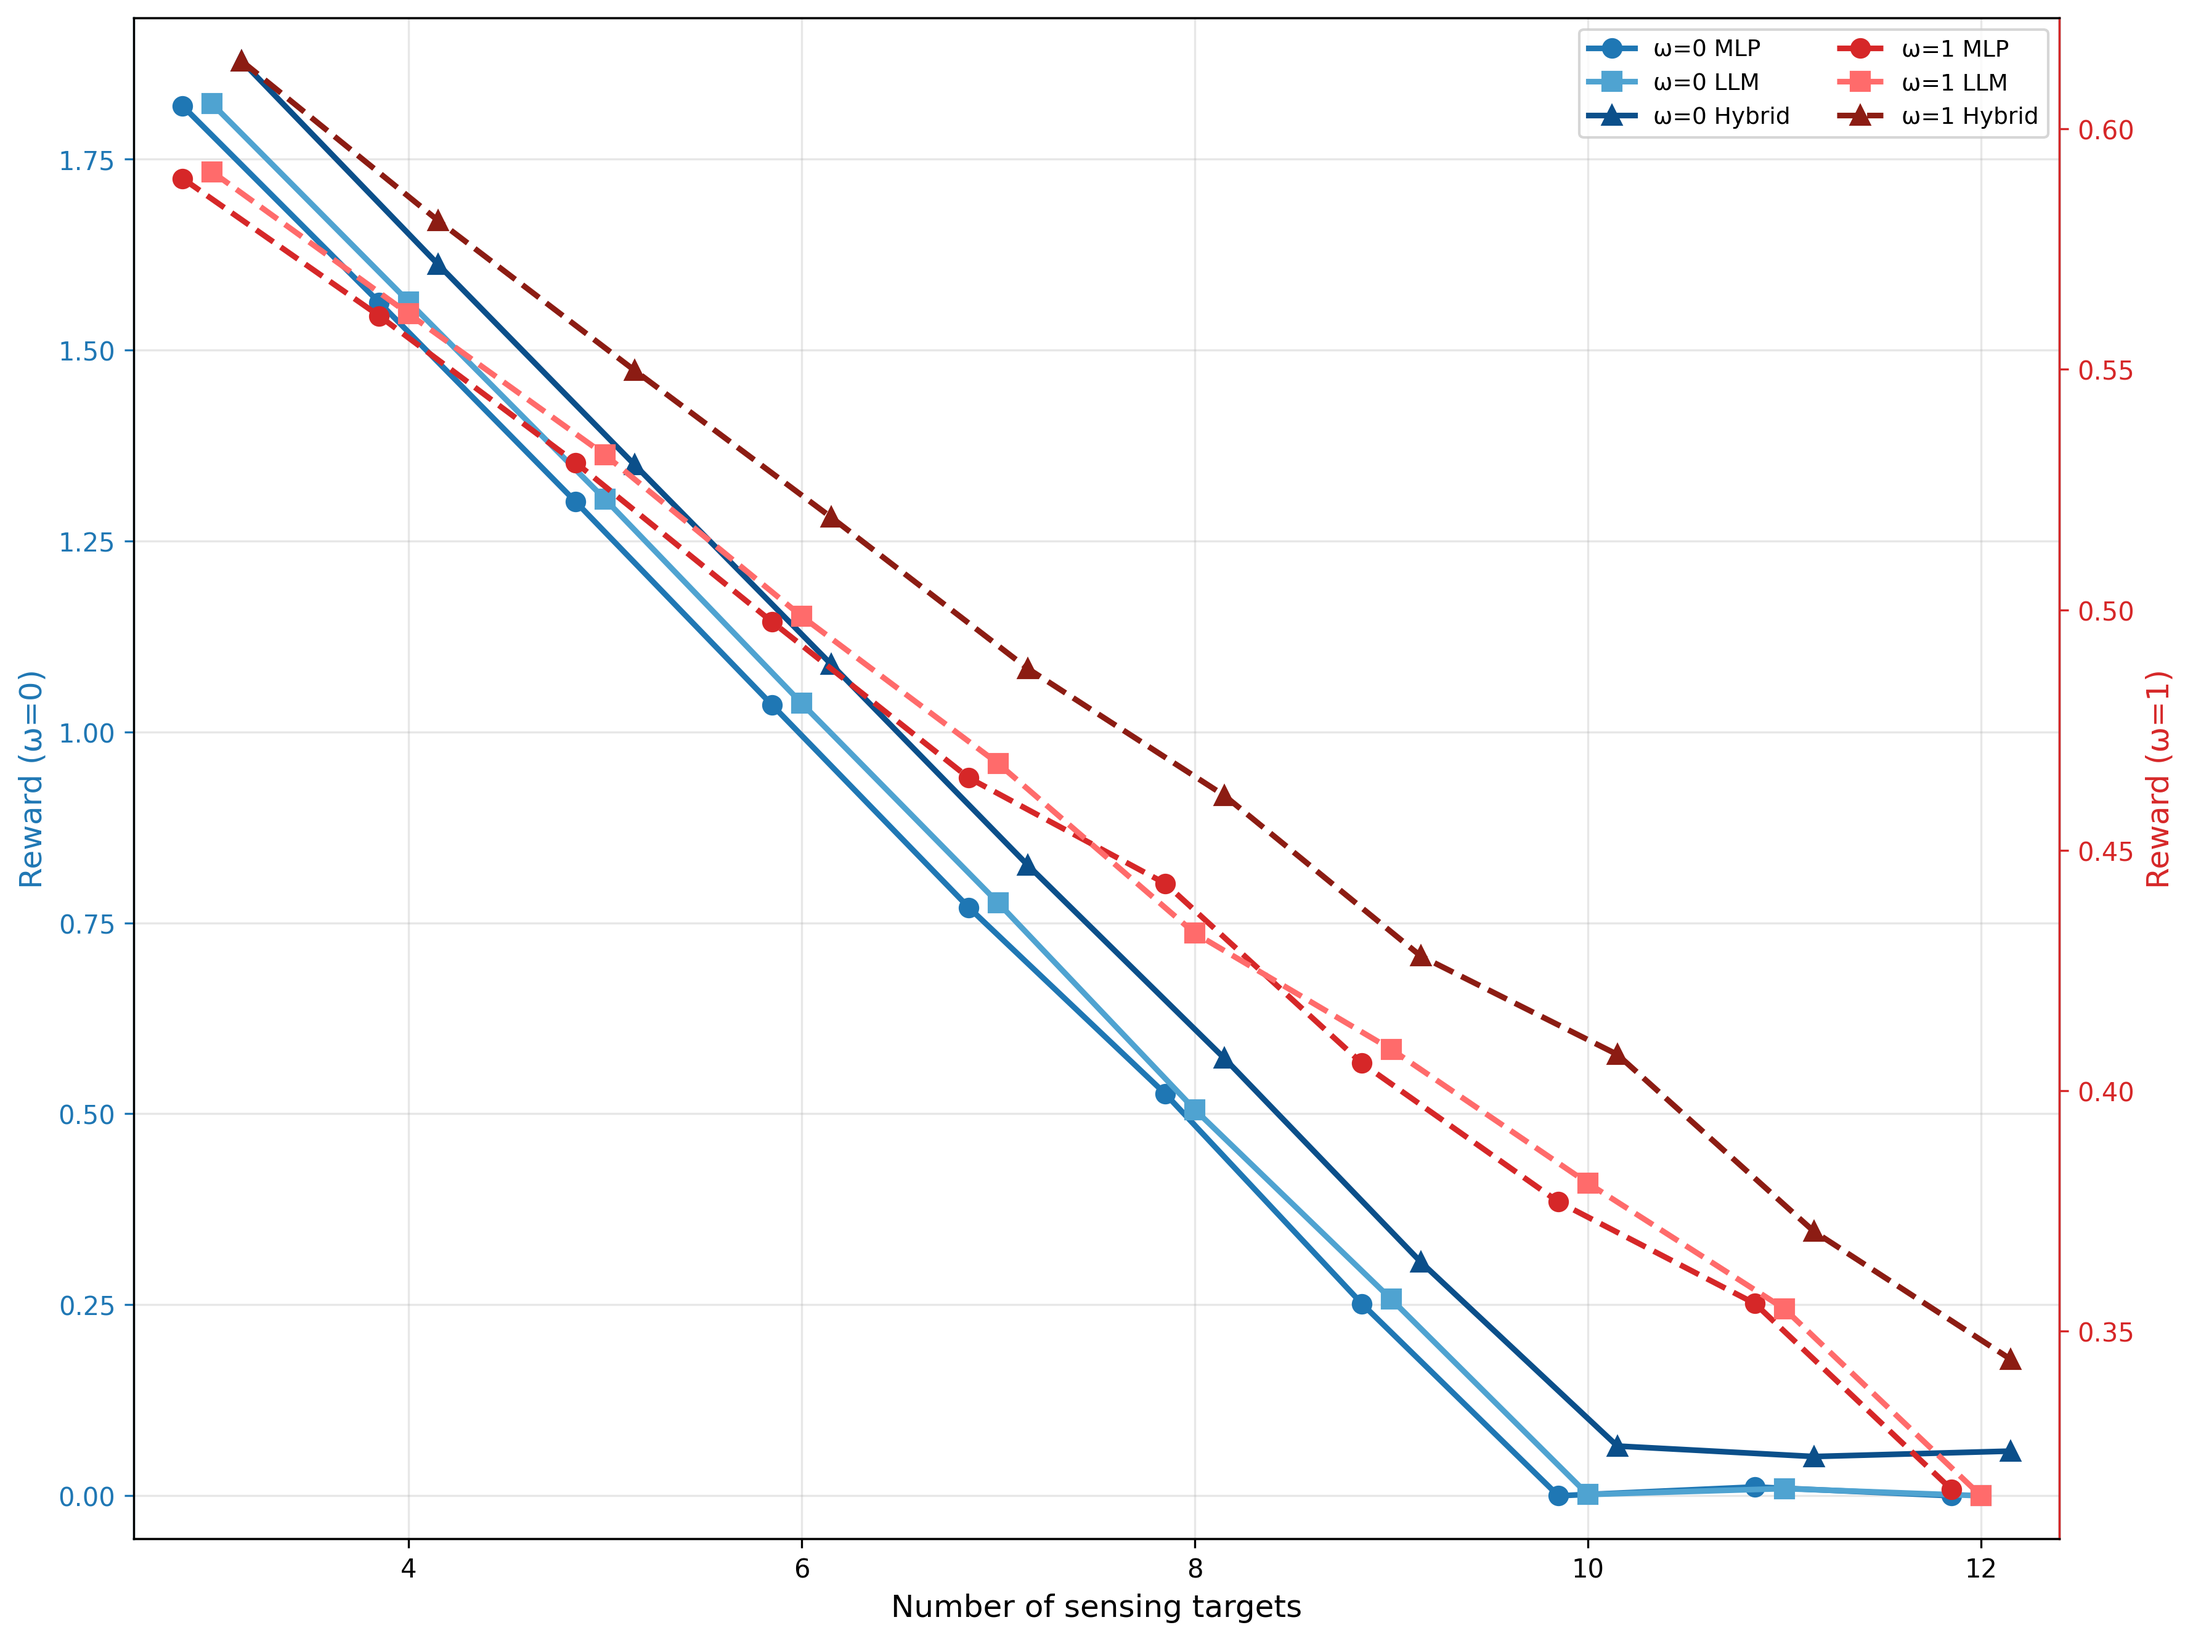
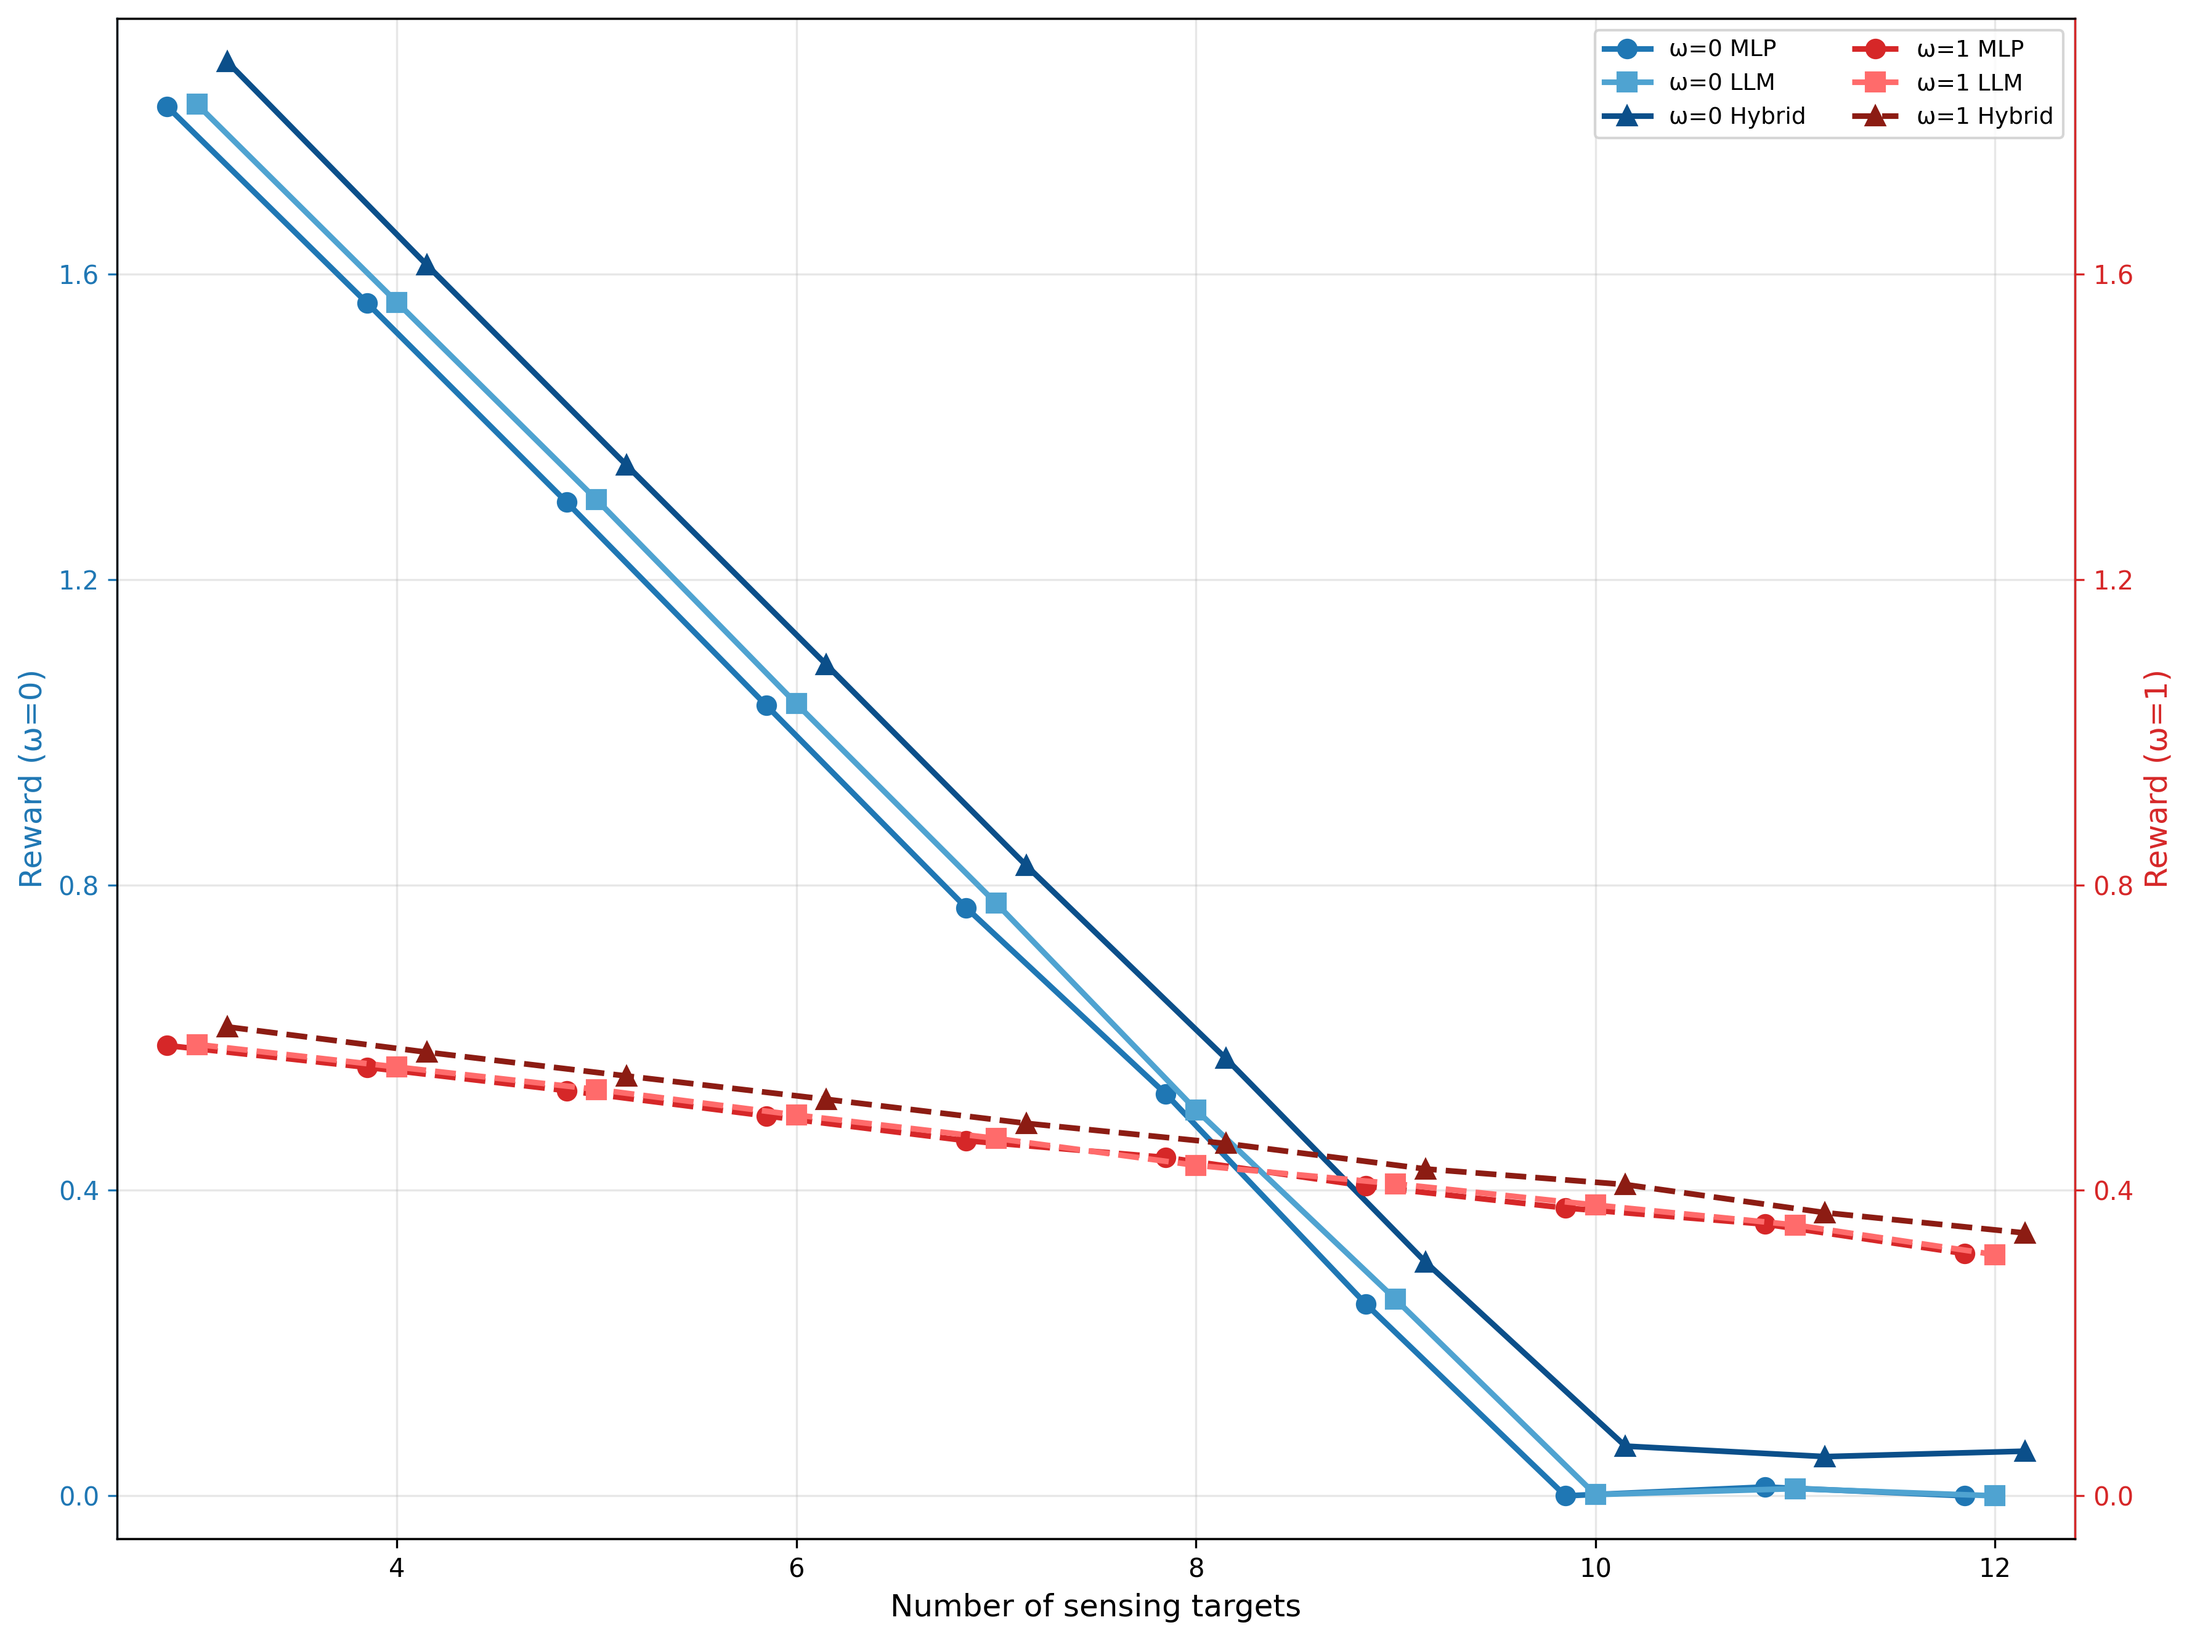
UX: sync dual y-axes in Figs 2–3 to identical scales and ticks

diff --git a/comprehensive_plots.py b/comprehensive_plots.py
@@ -86,6 +86,25 @@ def _set_stretched_ylim(ax, arrays, pad=0.05):
     rng = vmax - vmin
     ax.set_ylim(vmin - pad * rng, vmax + pad * rng)
 
+# New helper: synchronize dual y-axes to identical ranges
+def _sync_dual_ylim(ax_left, ax_right, arrays_left, arrays_right, pad=0.05):
+    vals = np.concatenate([np.asarray(a).ravel() for a in arrays_left + arrays_right if a is not None])
+    vmin, vmax = np.min(vals), np.max(vals)
+    if vmax <= vmin:
+        return
+    rng = vmax - vmin
+    lo, hi = vmin - pad * rng, vmax + pad * rng
+    ax_left.set_ylim(lo, hi)
+    ax_right.set_ylim(lo, hi)
+    # Optional: align major ticks count
+    try:
+        import matplotlib.ticker as mticker
+        locator = mticker.MaxNLocator(nbins=6)
+        ax_left.yaxis.set_major_locator(locator)
+        ax_right.yaxis.set_major_locator(locator)
+    except Exception:
+        pass
+
 # --- Figure 1: Convergence vs Episodes for Different Antennas/Power ---
 def plot_convergence_antennas_power():
     print("Creating Figure 1: Convergence vs Episodes (Antennas/Power) - 6 lines, no title")
@@ -181,9 +200,14 @@ def plot_rewards_vs_vus():
     ax_left.spines['left'].set_color(color_w0_axis)
     ax_right.spines['right'].set_color(color_w1_axis)
 
-    # Tighten view to stretch differences
-    _set_stretched_ylim(ax_left, [sensing['MLP'], sensing['LLM'], sensing['Hybrid']], pad=0.03)
-    _set_stretched_ylim(ax_right, [comm['MLP'], comm['LLM'], comm['Hybrid']], pad=0.03)
+    # Tighten view to stretch differences and sync both y-axes
+    _sync_dual_ylim(
+        ax_left,
+        ax_right,
+        [sensing['MLP'], sensing['LLM'], sensing['Hybrid']],
+        [comm['MLP'], comm['LLM'], comm['Hybrid']],
+        pad=0.03,
+    )
     ax_left.set_xlim(vu_range.min() - 0.4, vu_range.max() + 0.4)
 
     ax_left.grid(True, alpha=0.3)
@@ -251,9 +275,14 @@ def plot_rewards_vs_targets():
     ax_left.spines['left'].set_color(color_w0_axis)
     ax_right.spines['right'].set_color(color_w1_axis)
 
-    # Tighten view to stretch differences
-    _set_stretched_ylim(ax_left, [sensing['MLP'], sensing['LLM'], sensing['Hybrid']], pad=0.03)
-    _set_stretched_ylim(ax_right, [comm['MLP'], comm['LLM'], comm['Hybrid']], pad=0.03)
+    # Tighten view to stretch differences and sync both y-axes
+    _sync_dual_ylim(
+        ax_left,
+        ax_right,
+        [sensing['MLP'], sensing['LLM'], sensing['Hybrid']],
+        [comm['MLP'], comm['LLM'], comm['Hybrid']],
+        pad=0.03,
+    )
     ax_left.set_xlim(targets.min() - 0.4, targets.max() + 0.4)
 
     ax_left.grid(True, alpha=0.3)
